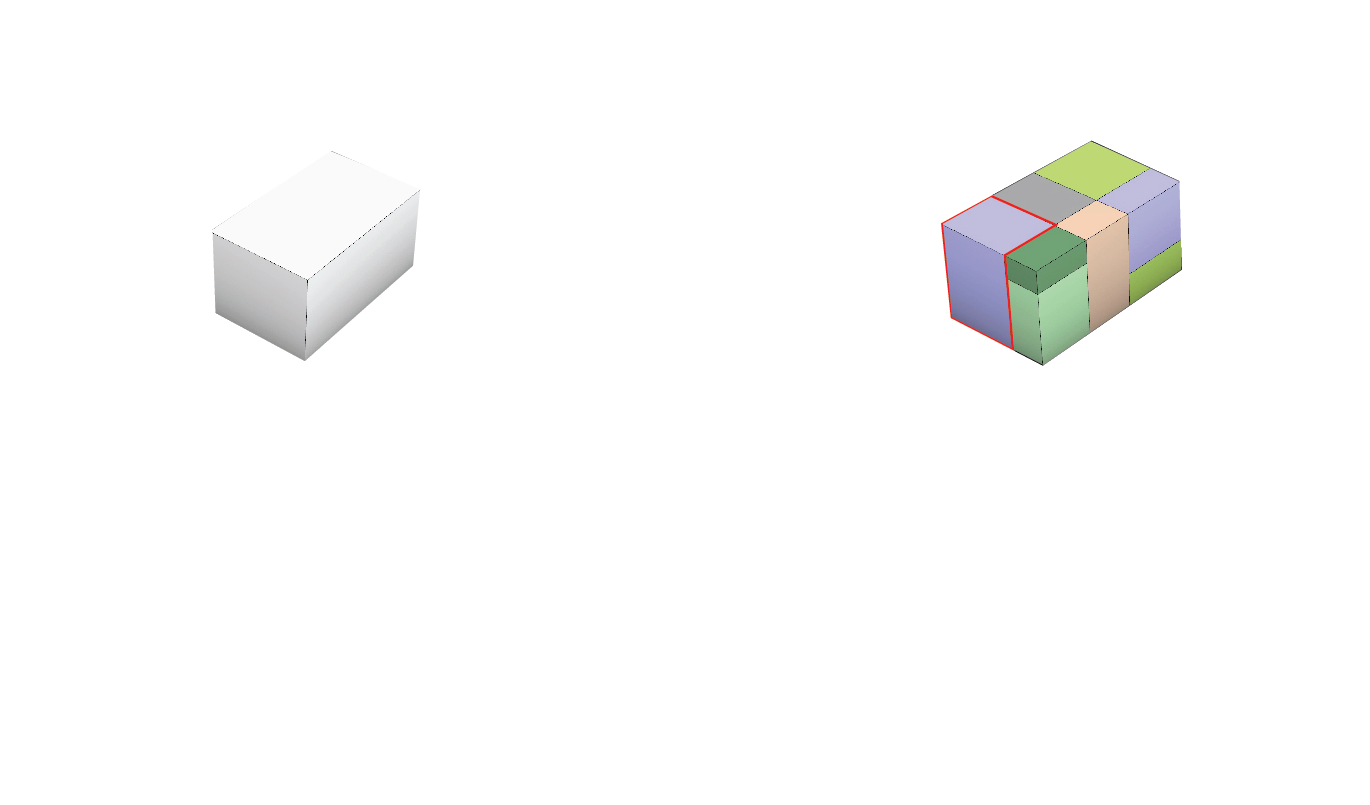
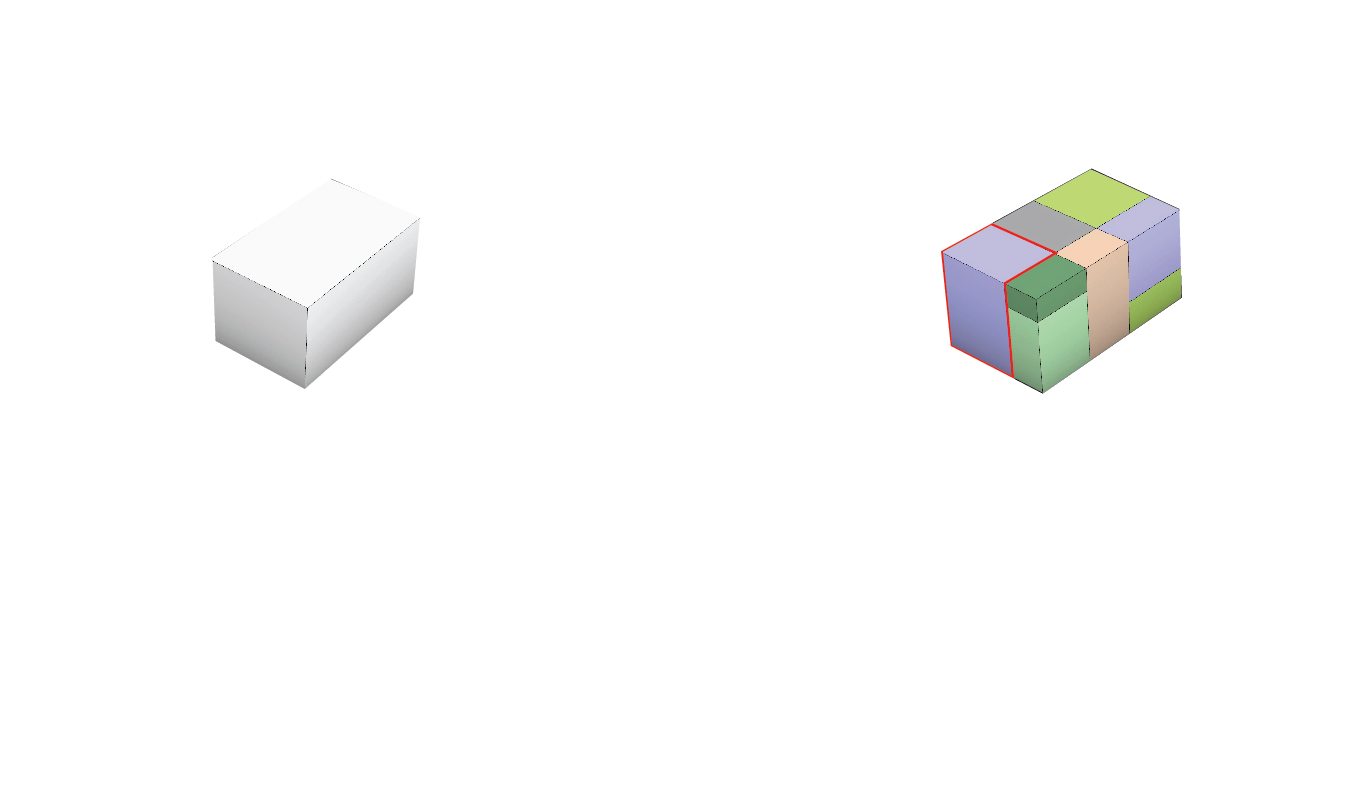
Updated Zoning

Changed region(s): [[0.6745, 0.1863, 0.8891, 0.4969], [0.1533, 0.2484, 0.3066, 0.4969]]

diff --git a/content/posts/zoning-problem.md b/content/posts/zoning-problem.md
@@ -13,19 +13,59 @@ showFullContent: false
 ---
 # Zoning Problem
 
-The zoning problem deals with designating the appropriate locations for the various functions in the space program clubbed under particular zones. Two things are primarily important while assigning the zones the closeness requirements of the zones with respect to each other and the appropriateness of the zones w.r.t to the decisions taken by the architect regarding the desired performance criteria.
+The zoning problem involves `generation` and `allocation `of zones inside a building mass which will cater to a specific function from the program of requirements of the building. There are two parts to the problem, the first one being the location of the zones and the closeness with respect to other zones and the second one is the shape and topological structure of the zones  with respect to the island formation, connectivity and form. Generating a high performing zoning solution will involve balancing the two aspects of the problem.
 
-The concept of `multi-agent systems` is used to solve the zoning problem.The system tries to achieve the global and local goals of the zonal configuration like controllable generation of a spatial system consisting of routes pertaining to a graph with closeness weights, spatial zones fitting into locations fulfilling their requirements and fitting their performance goals, and the compactness of the entire system into a space-efficient mass by devising the rules and behaviours of the agents in a quest for emergent optimal configuration such as a termite mound. Choosing a multi agent system over other techniques is done due to the transparency and adaptability of the method to search for valid options in the massive combinatorial search space along with didactic reasons.
+Determining the appropriate location of zones is a complex problem in itself. It highly depends on the design choices made by the actors regarding the spatial qualities required from the zones. The desirability of a location for a zone in a building would involve generating a collective decision from all the choices made by the actors involved in the configuration process. Location of the zones however is also bound by constraints where the location of the zones with respect to other zones also needs to be considered for accessibility and connectivity, thus adding an extra layer of combinatorial complexity to the problem. 
+
+The level of control over the  geometrical and topological resolution is the second part of the problem. Forming and shaping the best possible geometry according to the design intention while maintaining topological connectivity for the zones is essential and is a difficult task to manage when following the desirability results regarding the location of the zones. The main actor (architect)  in this particular level of the problem needs to define the rules for growth of the zones which will generate the intended spatial quality of the zones to ensure the validity of the design solution.
+
+The concept of `multi-agent systems` is used to solve the zoning problem.The multi agent system tries to achieve the global and local goals of the zonal configuration like controllable generation of a spatial system consisting of routes pertaining to a graph with closeness weights, spatial zones fitting into locations fulfilling their requirements and fitting their performance goals, and the compactness of the entire system into a space-efficient mass by devising the rules and behaviours of the computational agents in a quest for emergent optimal configuration such as a termite mound. The computational agents effectively grow the design decision taken by their respective actors into a zoning solution.
 
 # Aim
 
-To assign Zones in a massing model which will achieve the maximum performance value and the necessary closeness requirements as specified by the stakeholder.
+To assign and generate  Zones in a discretized massing model which will achieve the maximum performance value in terms of gathering the most desirable voxels for each zone while maintaining the necessary closeness requirements as specified by the actor.
 
 # Multi-Agent system
 
 In the multi-agent system designed to solve the Zoning problem there are three main elements.
-`1.Environment Lattices: `The [environment lattices](/posts/zoning-problem-enviornment) are developed by performing various environmental simulations on the discretised massing model or the voxel grid generated at the last stage of the massing problem.
+`1.Environment Lattices: `The [environment lattices](/posts/zoning-problem-enviornment) are developed by performing various environmental simulations on the discretised massing model or the voxel grid generated at the last stage of the massing problem.These enviornment simulations represent the spatial quality that the actor can choose while making design choices for the zones.
 
-`2.Agent Performance criteria:` [Performance criteria](/posts/zoning-problem-MCDA) are the lattices which are generated as a result of decision making with respect to the importance and need of the selected simulation matrices for the agent.
+`2.Agent Performance criteria:` [Performance criteria](/posts/zoning-problem-MCDA) are the lattices which are generated as a result of decision making with respect to the importance and need of the selected spatial qualities for the zones which the agent is trying to grow.
 
-`3.Agent Behaviours:` [Agent behaviours](/posts/zoning-problem-Agent-behaviours) are the actions which the agents can perform to achieve their goals on the performance criteria lattices.
+`3.Agent Behaviours:` [Agent behaviours](/posts/zoning-problem-Agent-behaviours) are the actions which the agents can perform to achieve their goals on the performance criteria lattices to grow the zonesin the discretised massing model.
+
+
+# Results
+The results generated for the zoning problem using the multi-agent system described in the previous section are discussed in detail in this section.Since the massing model or the spatial model is discretized into voxels it is possible to make discrete decision making and the problem of zoning can be looked in the form of location allocation problem. Due to this conversion of the abstract architectural problem into a mathematical problem, research from other engineering disciplines like Operations research in industrial engineering can be considered as inspiration. 
+There were two approaches considered for growing the decision of the actors using the multi-agent system. The first one is the Linear assignment approach. 
+
+# Linear Assignment approach:
+The first approach towards this problem is to deal with the zoning problem as an linear assignment problem researched extensively in operations research. The problem was first described by [ ] as a relatively simple problem in the allocation of indivisible resources is that of matching two sets of an equal number n of objects, by making up pairs of objects consisting of one object from each set. Objects belonging to the same set are similar in kind but not identical. For each of the n\textsuperscript possible pairs a score or value is given. The problem is to find a matching (or assignment to each other) of objects for which the sum of the scores of pairs matched is as high as possible.
+
+Considering the problem of zoning the objective of this same problem can be reinterpreted as maximising the summation of all the values of voxels in a cluster (function) for all clusters.
+
+## Steps involved in the Linear Assignment approach 
+`Step1:` Determine the possible agent origin locations
+The smallest zone in the whole program is the Restaurant and Cafe Zone consisting of 19 voxels that need to be occupied. So Considering this as the benchmark for division of the occupancy lattice all the available cells were divided into clusters of 20 cells to find the positions for 71 possible origin points for the agents.The number of agents for each of the zone was also divided based on this smallest occupancy size of the zone as seen in the table below:
+
+| COL 1 | COL2 | COL 3 |
+| - | :- | :-: |
+| Zones | Number of Voxels | Number of Agents |
+| Privately owned housing | 451 | 21 |
+| Social rental housing | 301 | 16 |
+| Free sector rental housing | 403 | 21 |
+| Restaurants and cafe | 19 | 1 |
+| Retail Stores | 73 | 4 |
+| Offices| 93 | 5 |
+| Parking| 51 | 3 |
+
+So each agent in the table has the goal of occupying the best 20 voxels surrounding its origin position.The final output of this step is a list of possible origin locations.
+
+`Step2:` Generating the Benefit matrix for the Agents
+The ABM simulation for all the position for all the agents is run in isolation and the total benefit generated by the occupying agents at each of the positions is recorded. The environment lattice which is the desirability lattice for the agent is also considered according to its zone. This simulation in isolation will give an idea about the benefit for the particular location for the twenty voxels which each agent has to occupy in the simulation. These recorded benefits are stored in a matrix as the output of this step. 
+
+`Step3:` Linear Assignment Process
+The Benefit matrices for the agents are used in the MIP solver with SCIP backend of the [Google OR tools](https://developers.google.com/optimization) to formulate a linear assignment problem where 71 agents have to be assigned to 71 origin positions in the base lattice of the model. The solver runs the calculation and generates the permutation matrix for the assignment problem which acts as the output of this step.
+
+`Step4:` Running the ABM Simulation according to the Permutation matrix
+The permutation matrix is used to run the agent based simulation for all the agents and the total benefit of the whole simulation is calculated by aggregating the occupied values from the desirability matrices of all the agents to calculate the total benefit.
